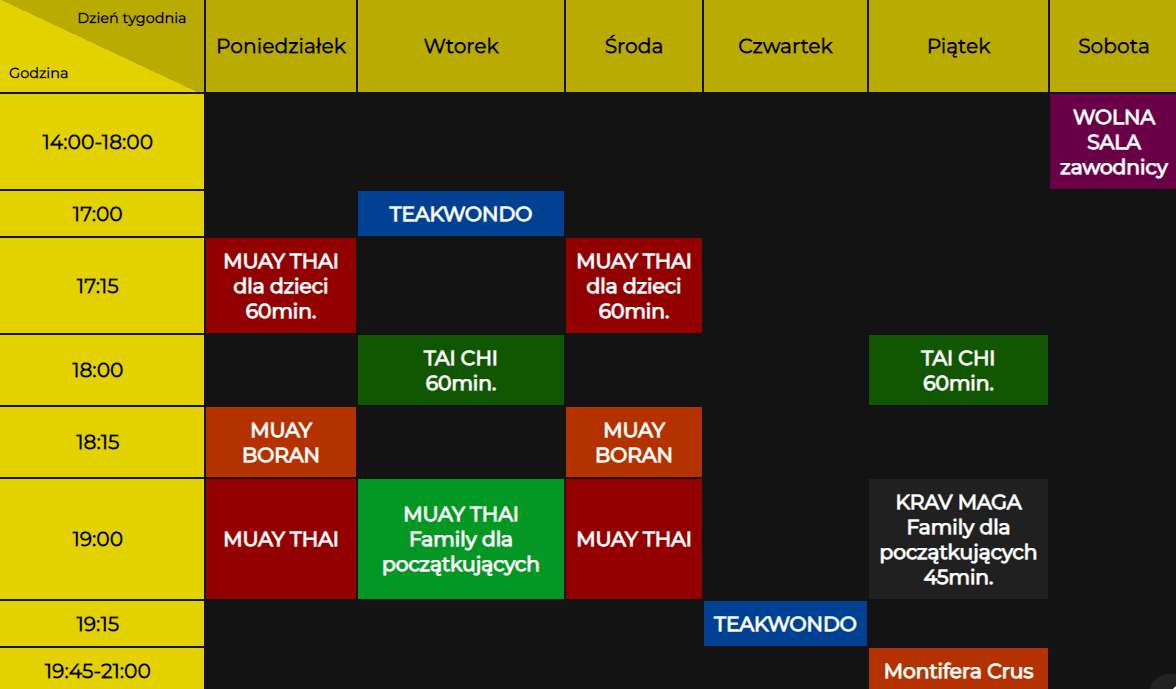
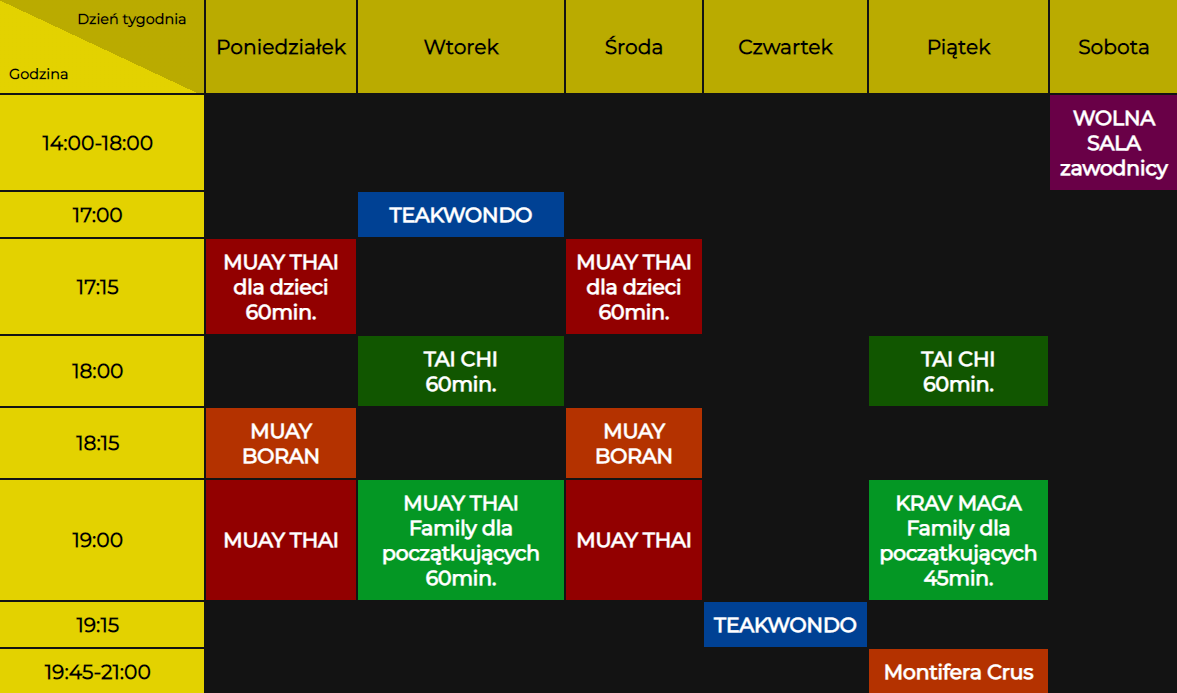
zmiana kolorów w grafiku i dopisanie czasu trwania do mtf

diff --git a/css/schedule.css b/css/schedule.css
@@ -83,14 +83,14 @@ td{
     {background-color:#920000}
 .muay-thai:hover
     {background-color:#bd0000}
-.muay-thai-family
+.muay-thai-family, .krav-maga
     {background-color:#00bd29c7}
-.muay-thai-family:hover
+.muay-thai-family:hover, .krav-maga:hover
     {background-color:#00bd29}
-.krav-maga
-    {background-color:#202020;/* color:#d9d9d9; */}
-.krav-maga:hover
-    {background-color:#2a2a2a}
+/*.krav-maga
+    {background-color:#202020;*//* color:#d9d9d9; *//*}*/
+/*.krav-maga:hover
+    {background-color:#2a2a2a}*/
 .teakwondo
     {background-color:#004194}
 .teakwondo:hover

diff --git a/schedule.html b/schedule.html
@@ -127,7 +127,7 @@
 					<tr>
 						<td><div class="inner-hours">19:00</div></td>
 						<td class="muay-thai">MUAY THAI</td>
-						<td class="muay-thai-family">MUAY THAI Family dla początkujących</td>
+						<td class="muay-thai-family">MUAY THAI Family dla początkujących<br>60min.</td>
 						<td class="muay-thai">MUAY THAI</td>
 						<td></td>
 						<td class="krav-maga">KRAV MAGA Family dla początkujących<br>45min.</td>
